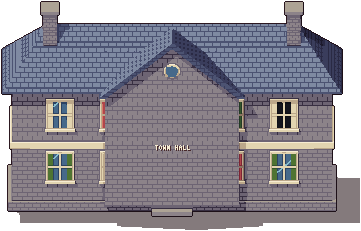
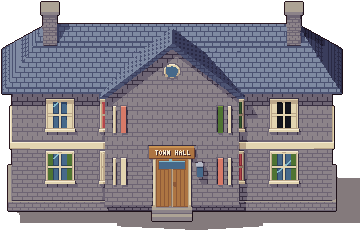
Practice builder: a cross-plan building's door, steps, sign and middle windows sit on its projecting front section (the 3D town hall had lost its door)
Claude-Session: https://claude.ai/code/session_01P6pGQCq2oe4GSAnTdGYxNB

diff --git a/hollow-acre/2d/tools/px/town3d.py b/hollow-acre/2d/tools/px/town3d.py
@@ -281,6 +281,15 @@ def build(name, sp, night):
         ay = top - Y(10)
         for k, x in enumerate(range(int(x0 + 6), int(x1 - 6), 7)):
             P.append(box(x, ay - Y(10), 0, min(x + 7, x1 - 6), ay, 16, 'awnA' if k % 2 else 'awnB', c=[x + 3.5, ay - Y(5), 8], planes=[[0, .8, .6, 3.5]]))
+    proud = (W * sp.get('gablew', .42) / 2, 10) if kind == 'cross' else None
+    def bring_forward(start):
+        if not proud: return
+        for q in P[start:]:
+            xs = [q[k][0] for k in ('min', 'max', 'c', 'a') if k in q]
+            if xs and all(abs(x) < proud[0] - 1 for x in xs):
+                for k in ('min', 'max', 'c', 'a', 'b'):
+                    if k in q: q[k] = [q[k][0], q[k][1], q[k][2] + proud[1]]
+    mark = len(P)
     # windows
     for i, wo in enumerate(sp.get('windows') or []):
         ww, wh = wo.get('w', 24), wo.get('h', 26); cx = x0 + wo['x'] * 32
@@ -307,11 +316,13 @@ def build(name, sp, night):
             P += [box(lx - 2, F + Y(dh - 8), 0, lx + 2, F + Y(dh - 6), 4, 'iron'), box(lx - 3, F + Y(dh - 18), 2, lx + 3, F + Y(dh - 8), 6, 'lit' if night else 'glass'),
                   box(lx - 3.5, F + Y(dh - 8), 1.5, lx + 3.5, F + Y(dh - 6.5), 6.5, 'iron')]
         meta = {'door_w': float(dw), 'door_dx': float(round(d.get('dx', 0) * 32) - 1), 'steps': st}
+    bring_forward(mark)
     if sp.get('sign'):
         text = sp['sign']; sw = len(text) * 4 + 9
         sy = top - Y((-2 if sp.get('awning') else 6) + sp.get('signy', 0)) - Y(11)
-        P.append(box(-sw / 2, sy, 0, sw / 2, sy + Y(11), 3, 'signb'))
-        meta['_sign'] = (text, sy + Y(11) - 2, 3)
+        sz0 = proud[1] if proud else 0
+        P.append(box(-sw / 2, sy, sz0, sw / 2, sy + Y(11), sz0 + 3, 'signb'))
+        meta['_sign'] = (text, sy + Y(11) - 2, sz0 + 3)
     if sp.get('ivy'):   # ivy climbing one corner
         ix = x0 + 8 if sp['ivy'] == 'left' else x1 - 8
         for k in range(5):
